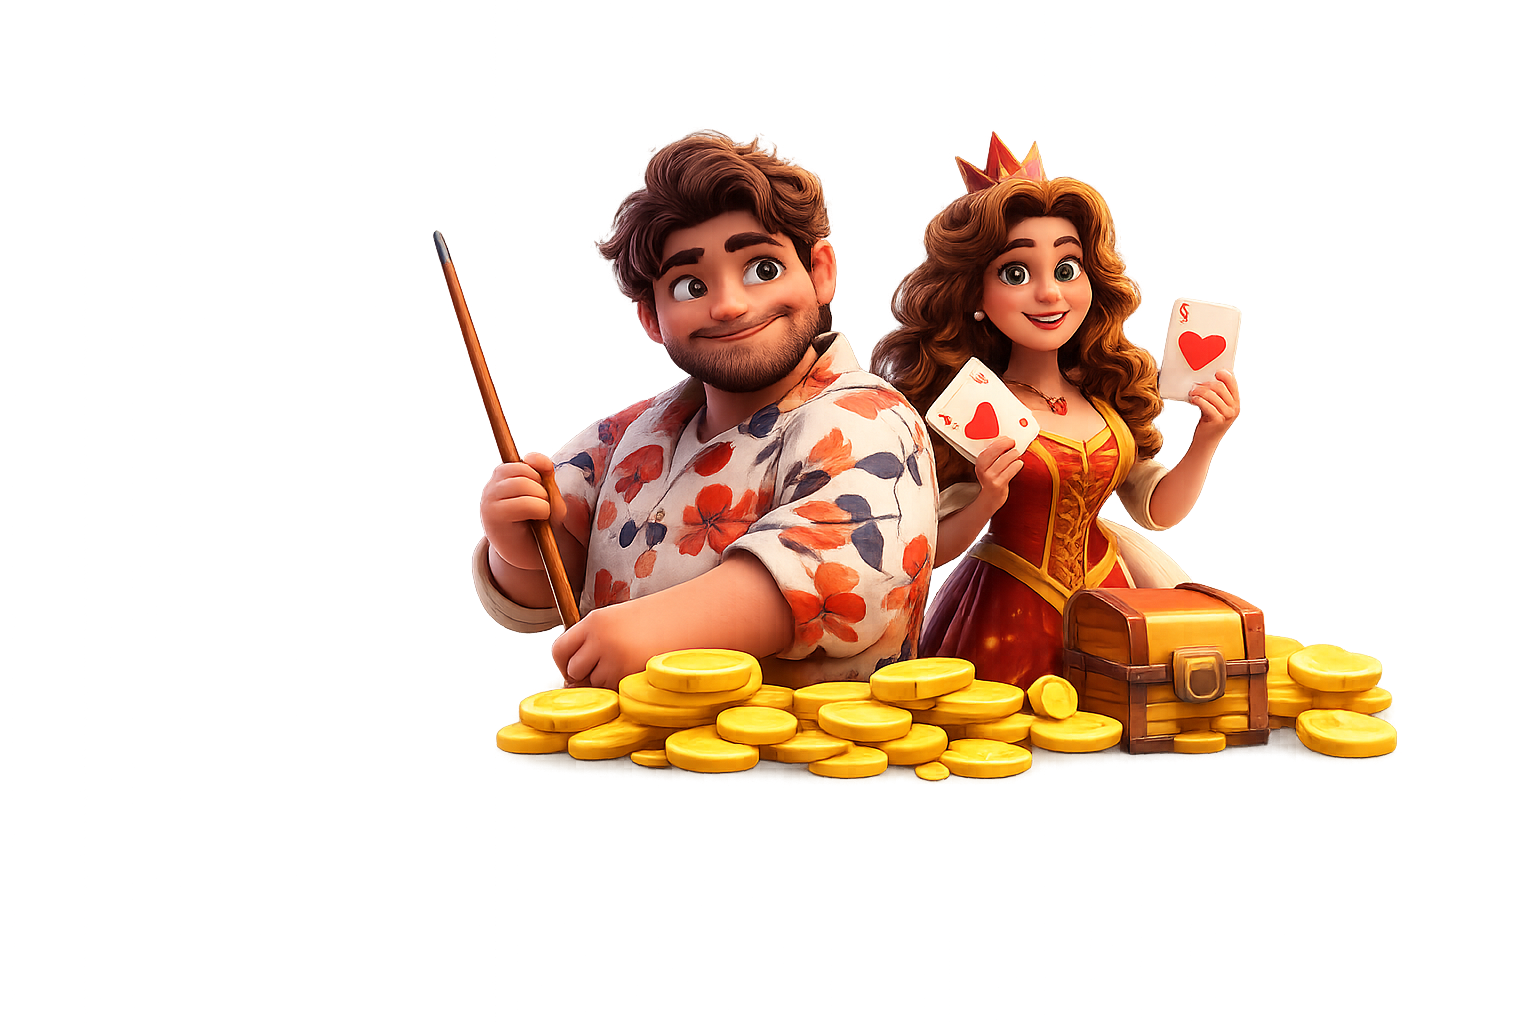
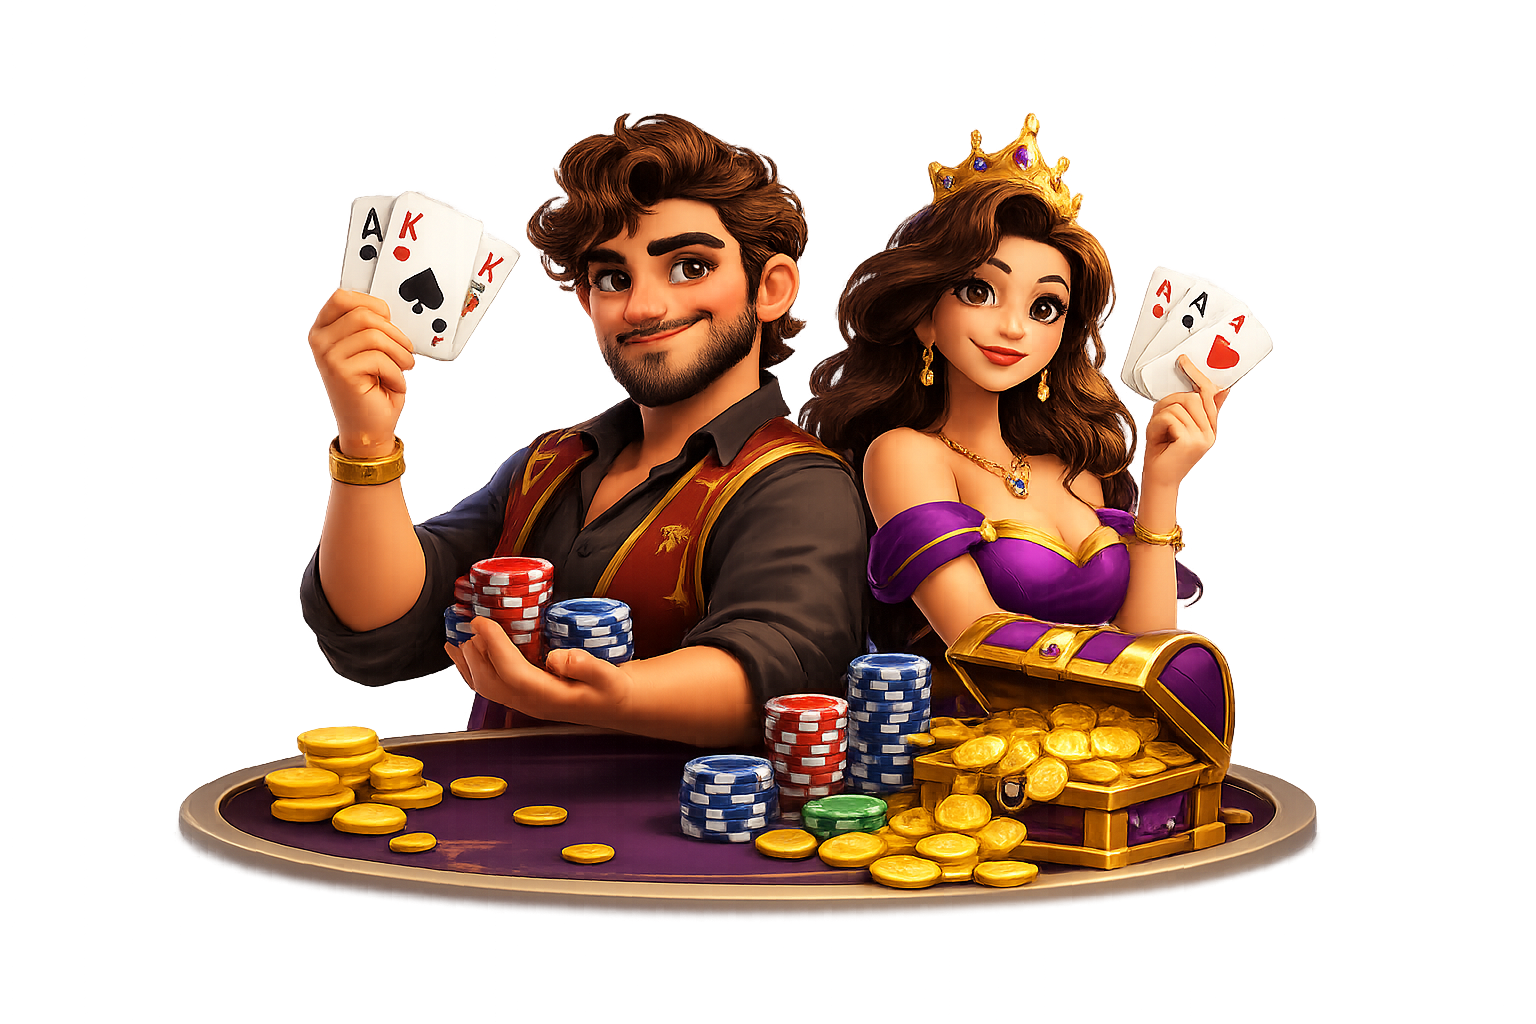
added

diff --git a/frontend/components/Navbar.tsx b/frontend/components/Navbar.tsx
@@ -4,7 +4,6 @@ import React, { useState } from 'react';
 import Link from 'next/link';
 import { useRouter } from 'next/navigation';
 import { useAuth } from '../context/AuthContext';
-import { ThemeToggle } from './ThemeToggle';
 import { AddMoneyModal } from './AddMoneyModal';
 import { LogOut, User as UserIcon, ChevronDown, Play, Dices, Wallet, PlusCircle } from 'lucide-react';
 
@@ -23,13 +22,13 @@ export const Navbar: React.FC = () => {
         </div>
       )}
 
-      <header className="sticky top-0 z-40 w-full backdrop-blur-xl bg-white/85 dark:bg-[#05070b]/90 border-b border-slate-200/80 dark:border-slate-800/80 transition-colors duration-300">
+      <header className="sticky top-0 z-40 w-full backdrop-blur-xl bg-[#05070b]/90 border-b border-slate-800/80 transition-colors duration-300">
         <div className="max-w-7xl mx-auto px-4 sm:px-6 lg:px-8">
           <div className="flex items-center justify-between h-20">
             
             {/* Fancy Text Logo */}
             <Link href="/" className="flex items-center space-x-3 group">
-              <div className="relative flex items-center justify-center w-10 h-10 rounded-xl bg-slate-900 dark:bg-slate-950 border border-emerald-500/40 shadow-lg shadow-emerald-500/10 group-hover:border-emerald-400 group-hover:shadow-emerald-500/25 transition-all duration-300">
+              <div className="relative flex items-center justify-center w-10 h-10 rounded-xl bg-slate-950 border border-emerald-500/40 shadow-lg shadow-emerald-500/10 group-hover:border-emerald-400 group-hover:shadow-emerald-500/25 transition-all duration-300">
                 <Dices className="w-5 h-5 text-emerald-400 transform group-hover:rotate-180 transition-transform duration-700" />
                 <div className="absolute -top-1 -right-1 w-2.5 h-2.5 rounded-full bg-emerald-500 animate-ping"></div>
                 <div className="absolute -top-1 -right-1 w-2.5 h-2.5 rounded-full bg-emerald-400"></div>
@@ -37,14 +36,14 @@ export const Navbar: React.FC = () => {
 
               <div className="flex flex-col">
                 <div className="flex items-center space-x-1">
-                  <span className="text-xl sm:text-2xl font-black tracking-tight text-slate-900 dark:text-white font-['Space_Grotesk']">
+                  <span className="text-xl sm:text-2xl font-black tracking-tight text-white font-['Space_Grotesk']">
                     BAAZI
                   </span>
                   <span className="text-xl sm:text-2xl font-black tracking-tight text-emerald-500 font-['Space_Grotesk']">
                     BOARD
                   </span>
                 </div>
-                <span className="text-[10px] font-bold tracking-widest text-slate-400 dark:text-slate-500 uppercase -mt-1 flex items-center space-x-1">
+                <span className="text-[10px] font-bold tracking-widest text-slate-500 uppercase -mt-1 flex items-center space-x-1">
                   <span className="w-1.5 h-1.5 rounded-full bg-emerald-500 inline-block"></span>
                   <span>Play & Win Daily</span>
                 </span>
@@ -55,29 +54,27 @@ export const Navbar: React.FC = () => {
             <nav className="hidden md:flex items-center space-x-8 font-semibold text-sm">
               <a
                 href="#games-section"
-                className="text-slate-600 hover:text-emerald-600 dark:text-slate-300 dark:hover:text-emerald-400 transition-colors"
+                className="text-slate-300 hover:text-emerald-400 transition-colors"
               >
                 All Games
               </a>
               <Link
                 href="/games/tic-tac-toe"
-                className="inline-flex items-center space-x-1.5 px-3.5 py-1.5 rounded-full bg-emerald-500/10 text-emerald-600 dark:text-emerald-400 hover:bg-emerald-500/20 font-bold transition-all border border-emerald-500/20"
+                className="inline-flex items-center space-x-1.5 px-3.5 py-1.5 rounded-full bg-emerald-500/10 text-emerald-400 hover:bg-emerald-500/20 font-bold transition-all border border-emerald-500/20"
               >
                 <Play className="w-3.5 h-3.5 fill-current" />
                 <span>Play Free Game</span>
               </Link>
             </nav>
 
-            {/* Right Actions: Mode, Wallet, Add Money & Auth */}
+            {/* Right Actions: Wallet, Add Money & Auth */}
             <div className="flex items-center space-x-3 sm:space-x-4">
               
-              <ThemeToggle />
-
               {user ? (
                 <div className="relative flex items-center space-x-2">
                   
                   {/* Payment Wallet Display */}
-                  <div className="flex items-center space-x-1.5 px-3 py-1.5 rounded-2xl bg-emerald-500/10 border border-emerald-500/20 text-emerald-600 dark:text-emerald-400 font-extrabold text-xs sm:text-sm">
+                  <div className="flex items-center space-x-1.5 px-3 py-1.5 rounded-2xl bg-emerald-500/10 border border-emerald-500/20 text-emerald-400 font-extrabold text-xs sm:text-sm">
                     <Wallet className="w-4 h-4 text-emerald-500" />
                     <span>₹{user.walletBalance || 500}</span>
                   </div>
@@ -94,7 +91,7 @@ export const Navbar: React.FC = () => {
                   {/* Profile Dropdown */}
                   <button
                     onClick={() => setDropdownOpen(!dropdownOpen)}
-                    className="flex items-center space-x-2 p-1.5 rounded-xl hover:bg-slate-100 dark:hover:bg-slate-800 transition-all border border-transparent hover:border-slate-300 dark:hover:border-slate-700"
+                    className="flex items-center space-x-2 p-1.5 rounded-xl hover:bg-slate-800 transition-all border border-transparent hover:border-slate-700"
                   >
                     <img
                       src={user.avatar}
@@ -106,10 +103,10 @@ export const Navbar: React.FC = () => {
 
                   {/* Dropdown Menu */}
                   {dropdownOpen && (
-                    <div className="absolute right-0 top-12 mt-2 w-60 glass-panel rounded-2xl p-2 shadow-2xl z-50 border border-slate-200 dark:border-slate-800">
-                      <div className="px-3 py-2 border-b border-slate-200 dark:border-slate-800">
+                    <div className="absolute right-0 top-12 mt-2 w-60 glass-panel rounded-2xl p-2 shadow-2xl z-50 border border-slate-800">
+                      <div className="px-3 py-2 border-b border-slate-800">
                         <p className="text-xs text-slate-400 uppercase font-bold">Signed in as</p>
-                        <p className="text-sm font-extrabold text-slate-900 dark:text-white truncate">{user.email}</p>
+                        <p className="text-sm font-extrabold text-white truncate">{user.email}</p>
                         <div className="mt-1 flex items-center justify-between text-xs font-bold text-emerald-500">
                           <span>Wallet: ₹{user.walletBalance || 500}</span>
                           <span>UPI: {user.upiId || 'user@paytm'}</span>
@@ -120,7 +117,7 @@ export const Navbar: React.FC = () => {
                           setDropdownOpen(false);
                           router.push('/profile');
                         }}
-                        className="w-full flex items-center space-x-2.5 px-3 py-2.5 mt-1 text-sm font-semibold text-slate-700 dark:text-slate-200 hover:bg-slate-100 dark:hover:bg-slate-800 rounded-xl transition-colors"
+                        className="w-full flex items-center space-x-2.5 px-3 py-2.5 mt-1 text-sm font-semibold text-slate-200 hover:bg-slate-800 rounded-xl transition-colors"
                       >
                         <UserIcon className="w-4 h-4 text-emerald-500" />
                         <span>User Dashboard & History</span>
@@ -130,7 +127,7 @@ export const Navbar: React.FC = () => {
                           setDropdownOpen(false);
                           logout();
                         }}
-                        className="w-full flex items-center space-x-2.5 px-3 py-2.5 text-sm font-semibold text-rose-600 dark:text-rose-400 hover:bg-rose-50 dark:hover:bg-rose-950/30 rounded-xl transition-colors"
+                        className="w-full flex items-center space-x-2.5 px-3 py-2.5 text-sm font-semibold text-rose-400 hover:bg-rose-950/30 rounded-xl transition-colors"
                       >
                         <LogOut className="w-4 h-4" />
                         <span>Logout</span>
@@ -142,7 +139,7 @@ export const Navbar: React.FC = () => {
               ) : (
                 <button
                   onClick={openAuthModal}
-                  className="px-5 py-2.5 rounded-xl font-extrabold text-sm bg-slate-900 hover:bg-slate-800 dark:bg-white dark:hover:bg-slate-100 text-white dark:text-slate-900 shadow-md transition-all duration-200 border border-emerald-500/30"
+                  className="px-5 py-2.5 rounded-xl font-extrabold text-sm bg-white hover:bg-slate-100 text-slate-900 shadow-md transition-all duration-200 border border-emerald-500/30"
                 >
                   Login
                 </button>

diff --git a/frontend/components/HeroSection.tsx b/frontend/components/HeroSection.tsx
@@ -11,20 +11,20 @@ export const HeroSection: React.FC = () => {
       <div className="absolute top-1/4 left-1/2 -translate-x-1/2 -translate-y-1/2 w-[600px] h-[350px] bg-gradient-to-tr from-emerald-600/15 to-teal-400/20 rounded-full blur-3xl pointer-events-none -z-10"></div>
 
       <div className="max-w-7xl mx-auto px-4 sm:px-6 lg:px-8">
-        <div className="glass-panel rounded-3xl p-6 sm:p-10 border border-slate-200/80 dark:border-slate-800/80 shadow-2xl relative overflow-hidden">
+        <div className="glass-panel rounded-3xl p-6 sm:p-10 border border-slate-800/80 shadow-2xl relative overflow-hidden">
           
           <div className="grid grid-cols-1 lg:grid-cols-12 gap-8 lg:gap-12 items-center relative z-10">
             
-            {/* Left Box: Hero Image Container */}
+            {/* Left Box: Restored Previous Hero Image Container */}
             <div className="lg:col-span-6 relative group">
-              <div className="absolute -inset-1 bg-gradient-to-r from-emerald-500 to-teal-400 rounded-3xl blur opacity-30 group-hover:opacity-60 transition duration-500"></div>
+              <div className="absolute -inset-1 bg-gradient-to-r from-emerald-500 to-teal-400 rounded-3xl blur opacity-40 group-hover:opacity-75 transition duration-500"></div>
               <div className="relative rounded-2xl overflow-hidden bg-slate-900 border border-slate-800 shadow-2xl aspect-[4/3] flex items-center justify-center">
                 <img
                   src="/images/hero_section.png"
                   alt="Baazi Board Hero"
                   className="w-full h-full object-cover transform transition-transform duration-700 group-hover:scale-105"
                   onError={(e) => {
-                    (e.target as HTMLImageElement).src = 'https://images.unsplash.com/photo-1542751371-adc38448a05e?auto=format&fit=crop&w=1200&q=80';
+                    (e.target as HTMLImageElement).src = '/images/hero_banner_dark.jpg';
                   }}
                 />
                 <div className="absolute inset-0 bg-gradient-to-t from-slate-950/80 via-transparent to-transparent"></div>
@@ -35,7 +35,7 @@ export const HeroSection: React.FC = () => {
                   </span>
                   <span className="flex items-center space-x-1.5 text-amber-400">
                     <Trophy className="w-4 h-4" />
-                    <span>Play & Win Coins</span>
+                    <span>Play & Win Cash Coins</span>
                   </span>
                 </div>
               </div>
@@ -43,19 +43,19 @@ export const HeroSection: React.FC = () => {
 
             {/* Right Box: Hero Text Content */}
             <div className="lg:col-span-6 space-y-6 text-left">
-              <div className="inline-flex items-center space-x-2 px-3 py-1 rounded-full bg-emerald-500/10 border border-emerald-500/20 text-emerald-600 dark:text-emerald-400 text-xs font-bold uppercase tracking-wider">
+              <div className="inline-flex items-center space-x-2 px-3 py-1 rounded-full bg-emerald-500/10 border border-emerald-500/20 text-emerald-400 text-xs font-bold uppercase tracking-wider">
                 <Sparkles className="w-3.5 h-3.5" />
                 <span>Next-Gen Gaming Hub</span>
               </div>
 
-              <h1 className="text-3xl sm:text-4xl lg:text-5xl font-black text-slate-900 dark:text-white tracking-tight leading-tight font-['Space_Grotesk']">
+              <h1 className="text-3xl sm:text-4xl lg:text-5xl font-black text-white tracking-tight leading-tight font-['Space_Grotesk']">
                 Welcome to <br />
                 <span className="bg-clip-text text-transparent bg-gradient-to-r from-emerald-500 via-teal-400 to-emerald-300">
                   BAAZI BOARD
                 </span>
               </h1>
 
-              <p className="text-base sm:text-lg text-slate-600 dark:text-slate-300 leading-relaxed font-normal">
+              <p className="text-base sm:text-lg text-slate-300 leading-relaxed font-normal">
                 Challenge players worldwide in Chess, Ludo, Snake & Ladder, Teen Patti, Carrom, and Number Predict! Jump into Tic-Tac-Toe completely free.
               </p>
 
@@ -70,14 +70,14 @@ export const HeroSection: React.FC = () => {
 
                 <a
                   href="#games-section"
-                  className="px-6 py-3.5 rounded-2xl bg-slate-100 hover:bg-slate-200 dark:bg-slate-800 dark:hover:bg-slate-700 text-slate-800 dark:text-slate-200 font-bold text-base border border-slate-300 dark:border-slate-700 transition-all flex items-center justify-center"
+                  className="px-6 py-3.5 rounded-2xl bg-slate-800 hover:bg-slate-700 text-slate-200 font-bold text-base border border-slate-700 transition-all flex items-center justify-center"
                 >
                   Explore All 7 Games
                 </a>
               </div>
 
               {/* Feature Badges */}
-              <div className="pt-4 border-t border-slate-200 dark:border-slate-800/80 grid grid-cols-3 gap-2 text-xs font-bold text-slate-500 dark:text-slate-400">
+              <div className="pt-4 border-t border-slate-800/80 grid grid-cols-3 gap-2 text-xs font-bold text-slate-400">
                 <div className="flex items-center space-x-1.5">
                   <ShieldCheck className="w-4 h-4 text-emerald-500" />
                   <span>Instant Rooms</span>

diff --git a/frontend/context/ThemeContext.tsx b/frontend/context/ThemeContext.tsx
@@ -1,8 +1,8 @@
 'use client';
 
-import React, { createContext, useContext, useEffect, useState } from 'react';
+import React, { createContext, useContext, useEffect } from 'react';
 
-type Theme = 'dark' | 'light';
+type Theme = 'dark';
 
 interface ThemeContextType {
   theme: Theme;
@@ -12,34 +12,13 @@ interface ThemeContextType {
 const ThemeContext = createContext<ThemeContextType | undefined>(undefined);
 
 export const ThemeProvider: React.FC<{ children: React.ReactNode }> = ({ children }) => {
-  const [theme, setTheme] = useState<Theme>('dark');
-  const [mounted, setMounted] = useState(false);
-
   useEffect(() => {
-    setMounted(true);
-    const saved = localStorage.getItem('app-theme') as Theme;
-    if (saved) {
-      setTheme(saved);
-    }
+    document.documentElement.classList.add('dark');
+    localStorage.setItem('app-theme', 'dark');
   }, []);
 
-  useEffect(() => {
-    if (!mounted) return;
-    const root = document.documentElement;
-    if (theme === 'dark') {
-      root.classList.add('dark');
-    } else {
-      root.classList.remove('dark');
-    }
-    localStorage.setItem('app-theme', theme);
-  }, [theme, mounted]);
-
-  const toggleTheme = () => {
-    setTheme((prev) => (prev === 'dark' ? 'light' : 'dark'));
-  };
-
   return (
-    <ThemeContext.Provider value={{ theme, toggleTheme }}>
+    <ThemeContext.Provider value={{ theme: 'dark', toggleTheme: () => {} }}>
       {children}
     </ThemeContext.Provider>
   );

diff --git a/frontend/app/layout.tsx b/frontend/app/layout.tsx
@@ -29,10 +29,10 @@ export default function RootLayout({
           rel="stylesheet"
         />
       </head>
-      <body className="font-['Outfit',sans-serif]" suppressHydrationWarning>
+      <body className="font-['Outfit',sans-serif] bg-[#05070b] text-slate-100" suppressHydrationWarning>
         <ThemeProvider>
           <AuthProvider>
-            <div className="min-h-screen flex flex-col bg-white text-slate-900 dark:bg-[#05070b] dark:text-slate-100 transition-colors duration-300">
+            <div className="min-h-screen flex flex-col bg-[#05070b] text-slate-100">
               <Navbar />
               <main className="flex-1">{children}</main>
               <AuthModal />
